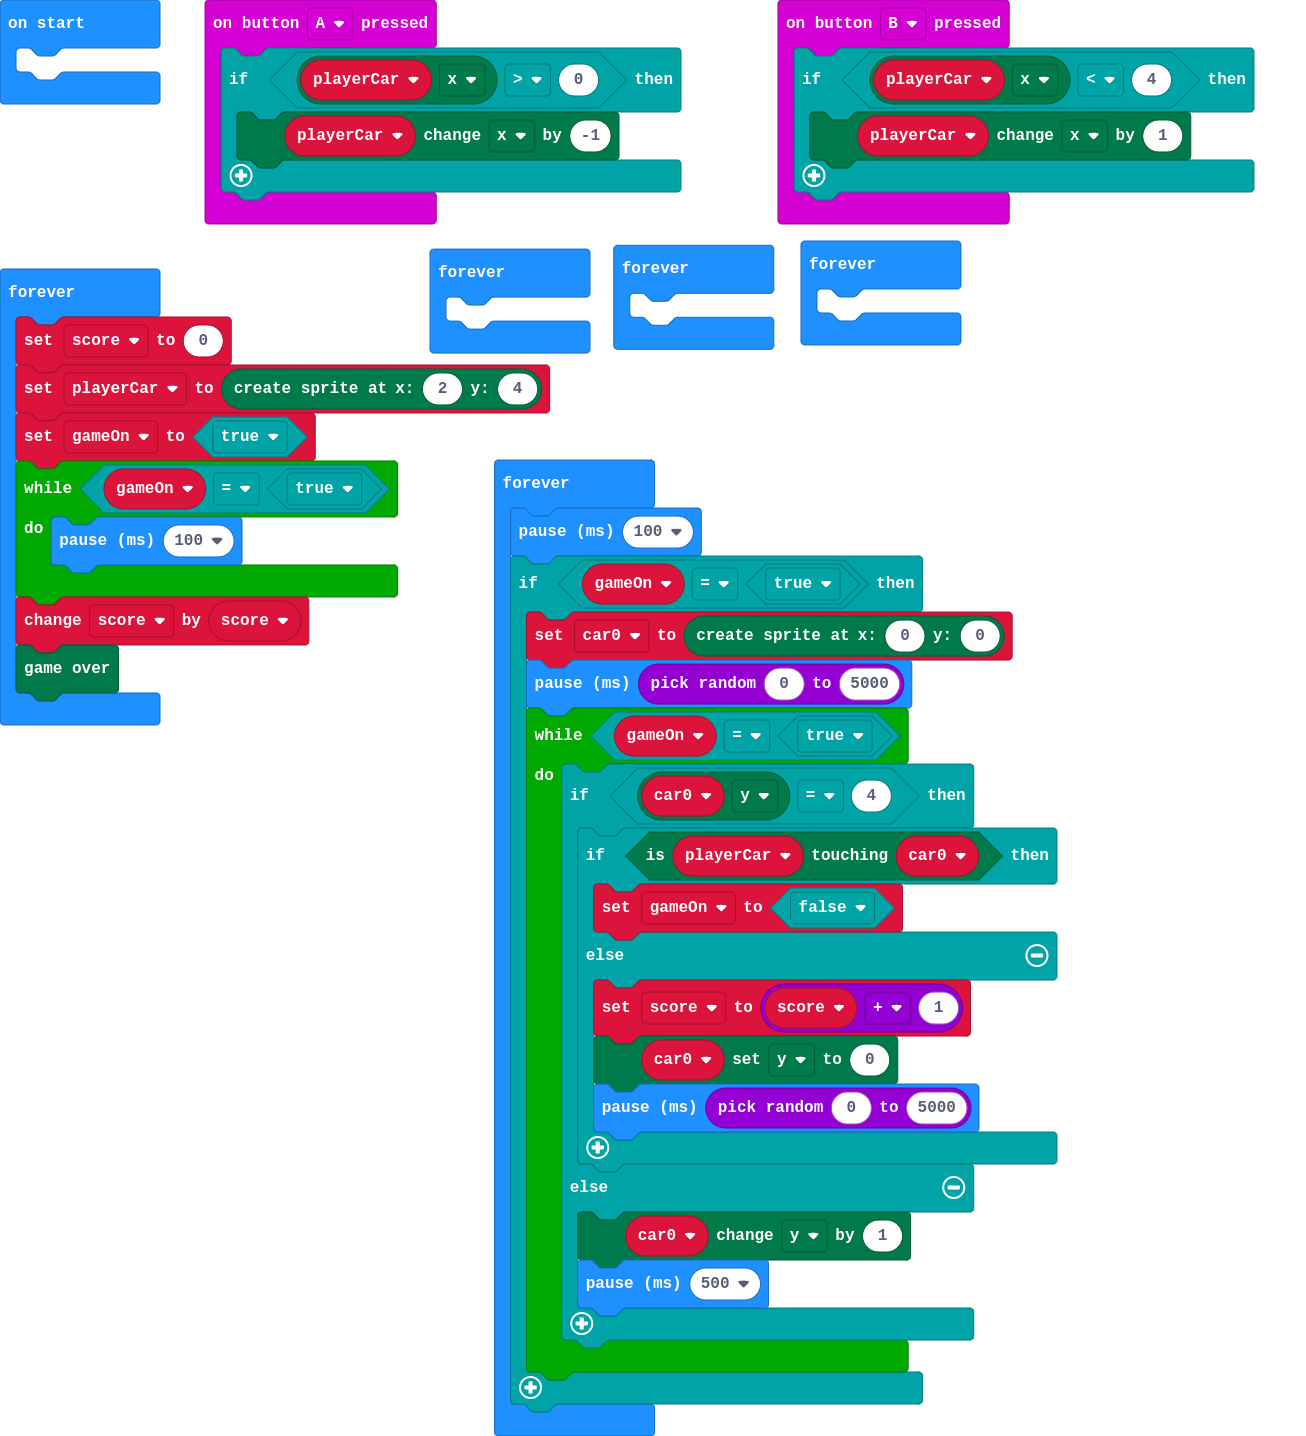
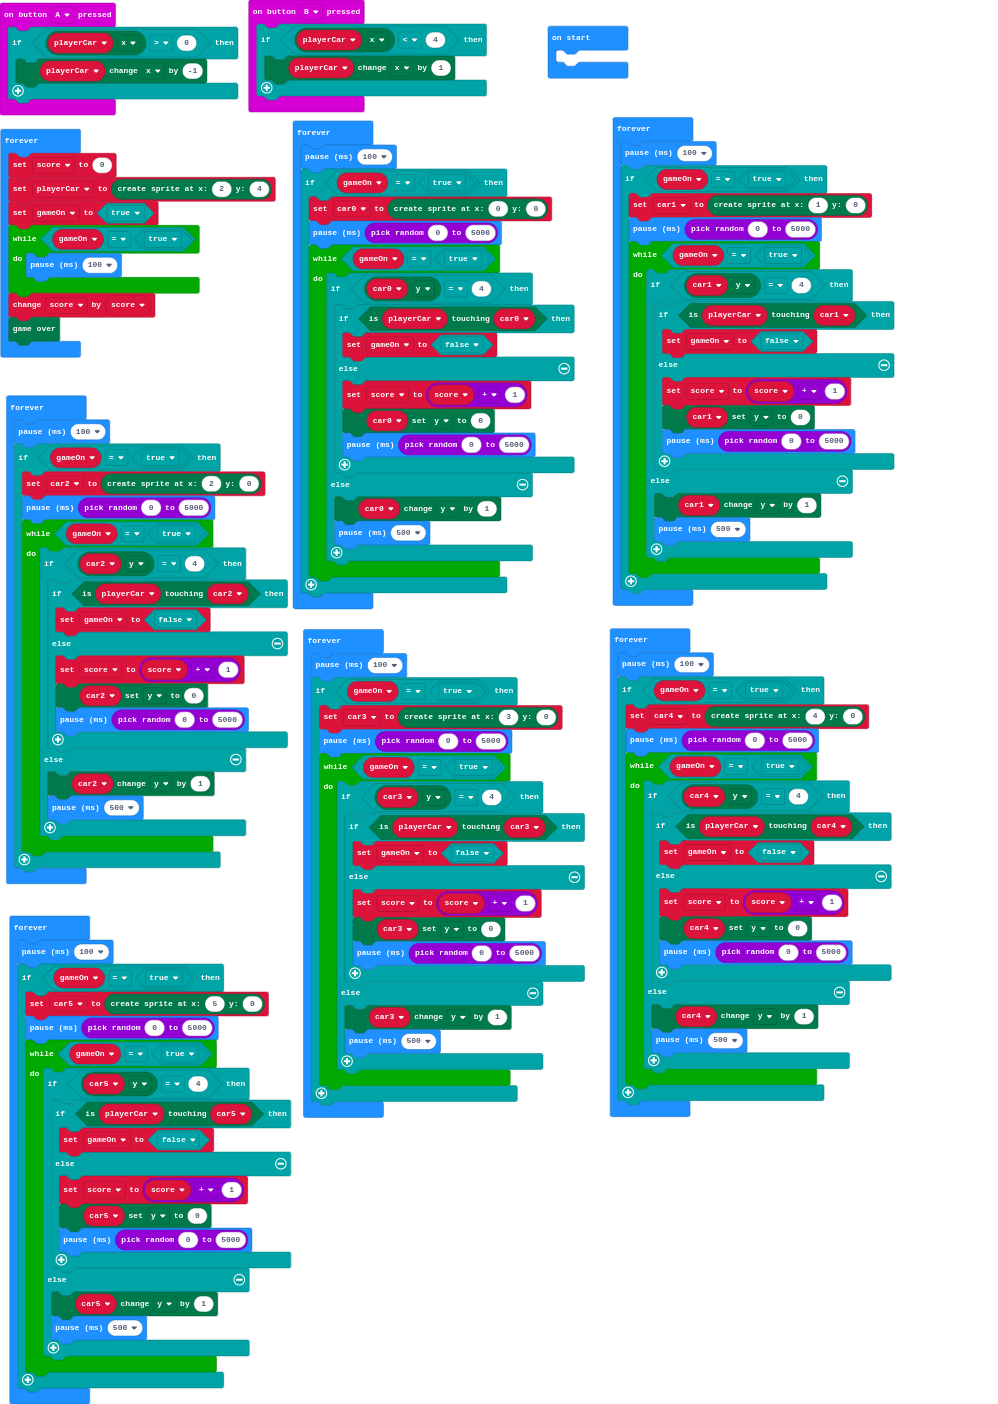
Update main.blocks, main.ts

diff --git a/main.ts b/main.ts
@@ -2,6 +2,11 @@ let playerCar: game.LedSprite = null
 let score = 0
 let gameOn = false
 let car0: game.LedSprite = null
+let car1: game.LedSprite = null
+let car2: game.LedSprite = null
+let car3: game.LedSprite = null
+let car4: game.LedSprite = null
+let car5: game.LedSprite = null
 input.onButtonPressed(Button.A, function () {
     if (playerCar.get(LedSpriteProperty.X) > 0) {
         playerCar.change(LedSpriteProperty.X, -1)
@@ -23,15 +28,6 @@ basic.forever(function () {
     game.gameOver()
 })
 basic.forever(function () {
-	
-})
-basic.forever(function () {
-	
-})
-basic.forever(function () {
-	
-})
-basic.forever(function () {
     basic.pause(100)
     if (gameOn == true) {
         car0 = game.createSprite(0, 0)
@@ -47,6 +43,111 @@ basic.forever(function () {
                 }
             } else {
                 car0.change(LedSpriteProperty.Y, 1)
+                basic.pause(500)
+            }
+        }
+    }
+})
+basic.forever(function () {
+    basic.pause(100)
+    if (gameOn == true) {
+        car1 = game.createSprite(1, 0)
+        basic.pause(randint(0, 5000))
+        while (gameOn == true) {
+            if (car1.get(LedSpriteProperty.Y) == 4) {
+                if (playerCar.isTouching(car1)) {
+                    gameOn = false
+                } else {
+                    score = score + 1
+                    car1.set(LedSpriteProperty.Y, 0)
+                    basic.pause(randint(0, 5000))
+                }
+            } else {
+                car1.change(LedSpriteProperty.Y, 1)
+                basic.pause(500)
+            }
+        }
+    }
+})
+basic.forever(function () {
+    basic.pause(100)
+    if (gameOn == true) {
+        car2 = game.createSprite(2, 0)
+        basic.pause(randint(0, 5000))
+        while (gameOn == true) {
+            if (car2.get(LedSpriteProperty.Y) == 4) {
+                if (playerCar.isTouching(car2)) {
+                    gameOn = false
+                } else {
+                    score = score + 1
+                    car2.set(LedSpriteProperty.Y, 0)
+                    basic.pause(randint(0, 5000))
+                }
+            } else {
+                car2.change(LedSpriteProperty.Y, 1)
+                basic.pause(500)
+            }
+        }
+    }
+})
+basic.forever(function () {
+    basic.pause(100)
+    if (gameOn == true) {
+        car3 = game.createSprite(3, 0)
+        basic.pause(randint(0, 5000))
+        while (gameOn == true) {
+            if (car3.get(LedSpriteProperty.Y) == 4) {
+                if (playerCar.isTouching(car3)) {
+                    gameOn = false
+                } else {
+                    score = score + 1
+                    car3.set(LedSpriteProperty.Y, 0)
+                    basic.pause(randint(0, 5000))
+                }
+            } else {
+                car3.change(LedSpriteProperty.Y, 1)
+                basic.pause(500)
+            }
+        }
+    }
+})
+basic.forever(function () {
+    basic.pause(100)
+    if (gameOn == true) {
+        car4 = game.createSprite(4, 0)
+        basic.pause(randint(0, 5000))
+        while (gameOn == true) {
+            if (car4.get(LedSpriteProperty.Y) == 4) {
+                if (playerCar.isTouching(car4)) {
+                    gameOn = false
+                } else {
+                    score = score + 1
+                    car4.set(LedSpriteProperty.Y, 0)
+                    basic.pause(randint(0, 5000))
+                }
+            } else {
+                car4.change(LedSpriteProperty.Y, 1)
+                basic.pause(500)
+            }
+        }
+    }
+})
+basic.forever(function () {
+    basic.pause(100)
+    if (gameOn == true) {
+        car5 = game.createSprite(5, 0)
+        basic.pause(randint(0, 5000))
+        while (gameOn == true) {
+            if (car5.get(LedSpriteProperty.Y) == 4) {
+                if (playerCar.isTouching(car5)) {
+                    gameOn = false
+                } else {
+                    score = score + 1
+                    car5.set(LedSpriteProperty.Y, 0)
+                    basic.pause(randint(0, 5000))
+                }
+            } else {
+                car5.change(LedSpriteProperty.Y, 1)
                 basic.pause(500)
             }
         }
